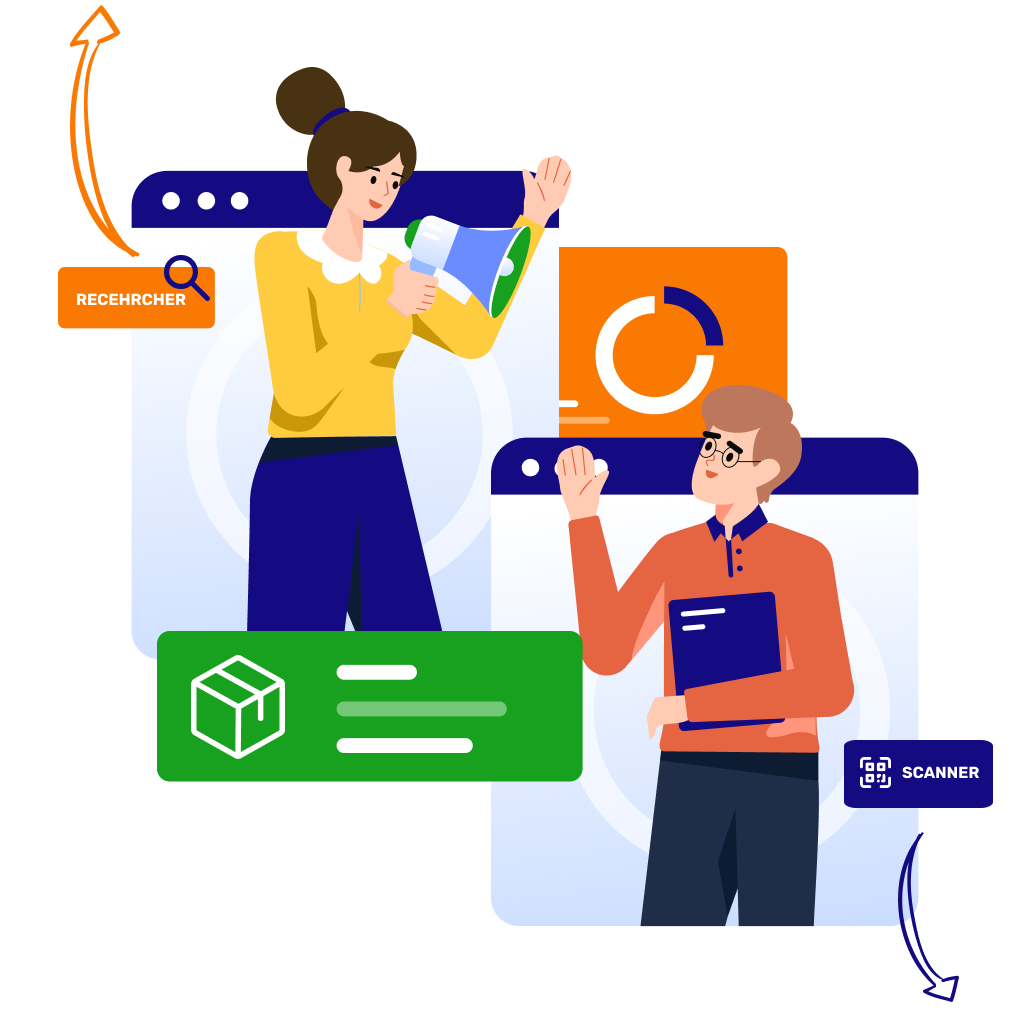
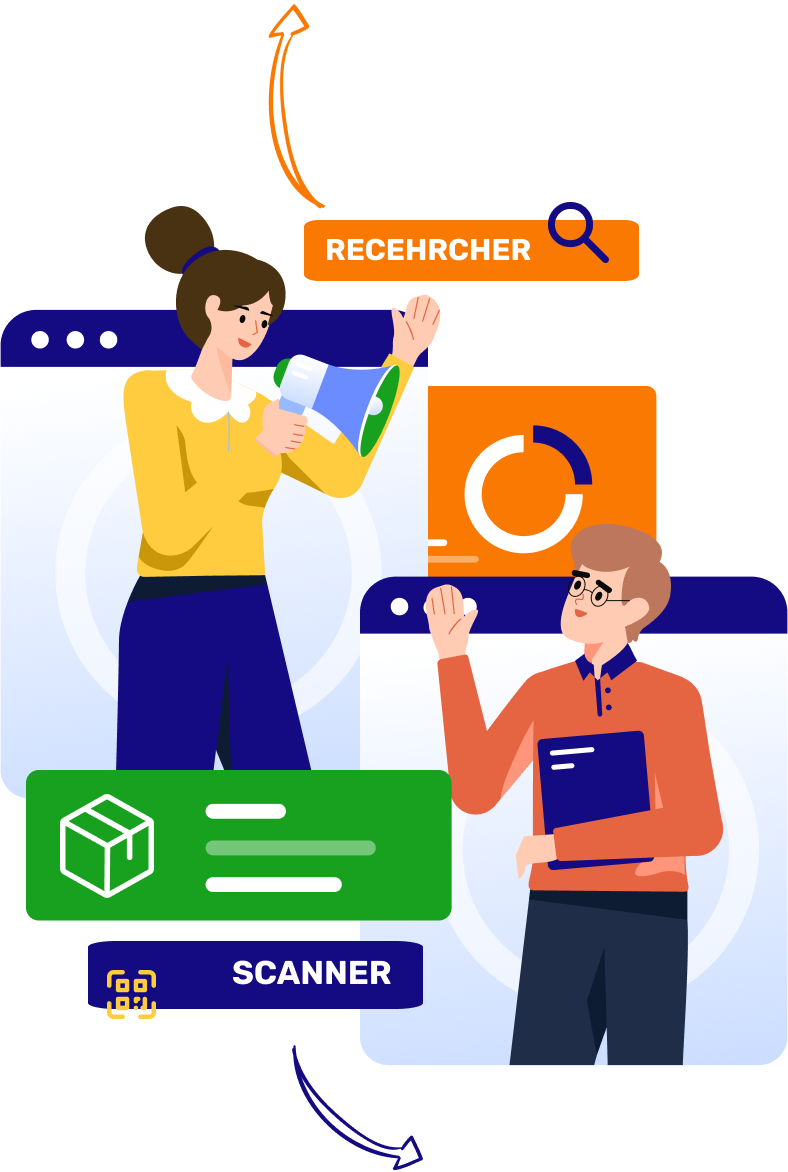
welcome

diff --git a/step_post_mobile_flutter/lib/views/widgets/welcome_widget.dart b/step_post_mobile_flutter/lib/views/widgets/welcome_widget.dart
@@ -15,7 +15,7 @@ class WelcomeWidget extends StatelessWidget {
         children: [
           Image.asset(
             "assets/images/welcome.png",
-            //width: MediaQuery.of(context).size.width * .75,
+            width: MediaQuery.of(context).size.width * .75,
             fit: BoxFit.cover,
           ),
           const SizedBox(
